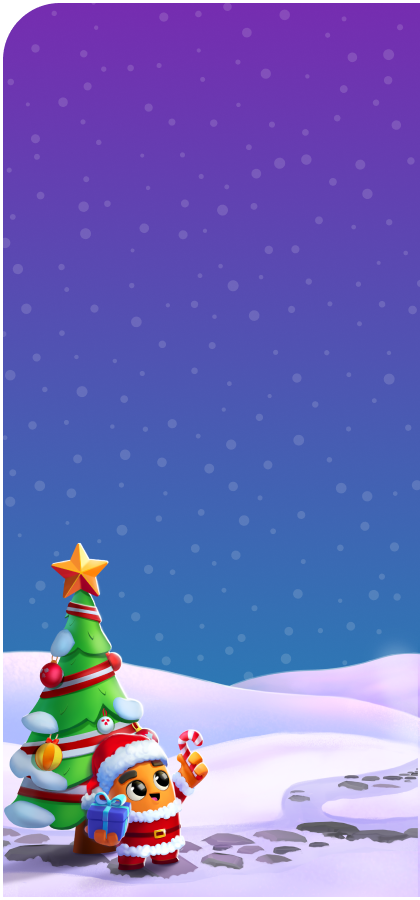
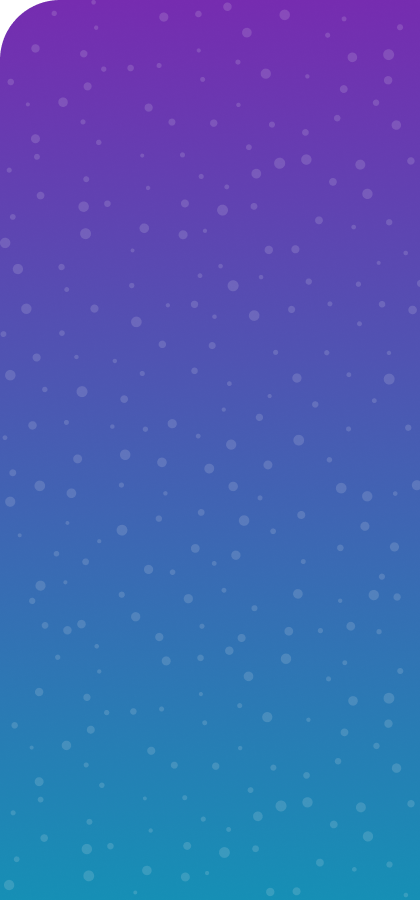
Fix: separate slider image onto background and bottom

Changed region(s): [[0.0, 0.0311, 1.0, 1.0], [0.031, 0.0, 1.0, 0.0311]]

diff --git a/src/_widgets/SideMenu/ui/SideMenu.tsx b/src/_widgets/SideMenu/ui/SideMenu.tsx
@@ -1,8 +1,9 @@
 import { LargeText } from '_shared/ui';
 import modal6 from '/modal-6.png';
+import modal6bottom from '/modal-6-bottom.png';
 import styled from 'styled-components';
 import modalCloseButton from '/modal-close-button.png';
-import { useAppSelector, useAppDispatch, setSliderOpen } from '_app/redux';
+import { useAppSelector } from '_app/redux';
 import { useOnClickOutside } from 'usehooks-ts';
 import { useRef } from 'react';
 import { useSliderMutation } from '_features/slider-mutation';
@@ -30,19 +31,23 @@ const SecondOverlay = styled.div`
   background: #00000099;
 `;
 
-const SideMenuContent = styled.div`
-  height: calc(100% - 100px);
-  position: absolute;
+const SideMenuContentContainer = styled.div`
+  height: 100%;
   width: 30%;
+  position: absolute;
   right: 0;
   top: 0;
   background: url(${modal6});
   background-repeat: no-repeat;
   background-size: cover;
   background-position: bottom;
-  padding: 50px;
   border: 3px solid white;
   border-top-left-radius: 60px;
+`;
+
+const SideMenuContent = styled.div`
+  height: calc(100% - 100px);
+  padding: 50px;
 `;
 
 const TextContent = styled.div`
@@ -61,6 +66,13 @@ const CloseButton = styled.img`
   cursor: pointer;
 `;
 
+const BottomImage = styled.img`
+  width: 100%;
+  height: auto;
+  position: absolute;
+  bottom: 0;
+`;
+
 export const SideMenu = () => {
   const contentRef = useRef<HTMLDivElement | null>(null);
   const open = useAppSelector((state) => state.main.sliderOpen);
@@ -74,19 +86,21 @@ export const SideMenu = () => {
     <MainContainer>
       <FirstOverlay />
       <SecondOverlay />
-
-      <SideMenuContent ref={contentRef}>
-        <CloseButton
-          onClick={_sliderMutation.toggleSlider}
-          src={modalCloseButton}
-        />
-        <TextContent>
-          <LargeText>HOW TO PARTICIPATE?</LargeText>
-          <LargeText>CONDITIONS OF PARTICIPATION</LargeText>
-          <LargeText>PRIVACY POLICY</LargeText>
-          <LargeText>CONTACT</LargeText>
-        </TextContent>
-      </SideMenuContent>
+      <SideMenuContentContainer>
+        <SideMenuContent ref={contentRef}>
+          <CloseButton
+            onClick={_sliderMutation.toggleSlider}
+            src={modalCloseButton}
+          />
+          <TextContent>
+            <LargeText>HOW TO PARTICIPATE?</LargeText>
+            <LargeText>CONDITIONS OF PARTICIPATION</LargeText>
+            <LargeText>PRIVACY POLICY</LargeText>
+            <LargeText>CONTACT</LargeText>
+          </TextContent>
+        </SideMenuContent>
+        <BottomImage src={modal6bottom} />
+      </SideMenuContentContainer>
     </MainContainer>
   );
 };
